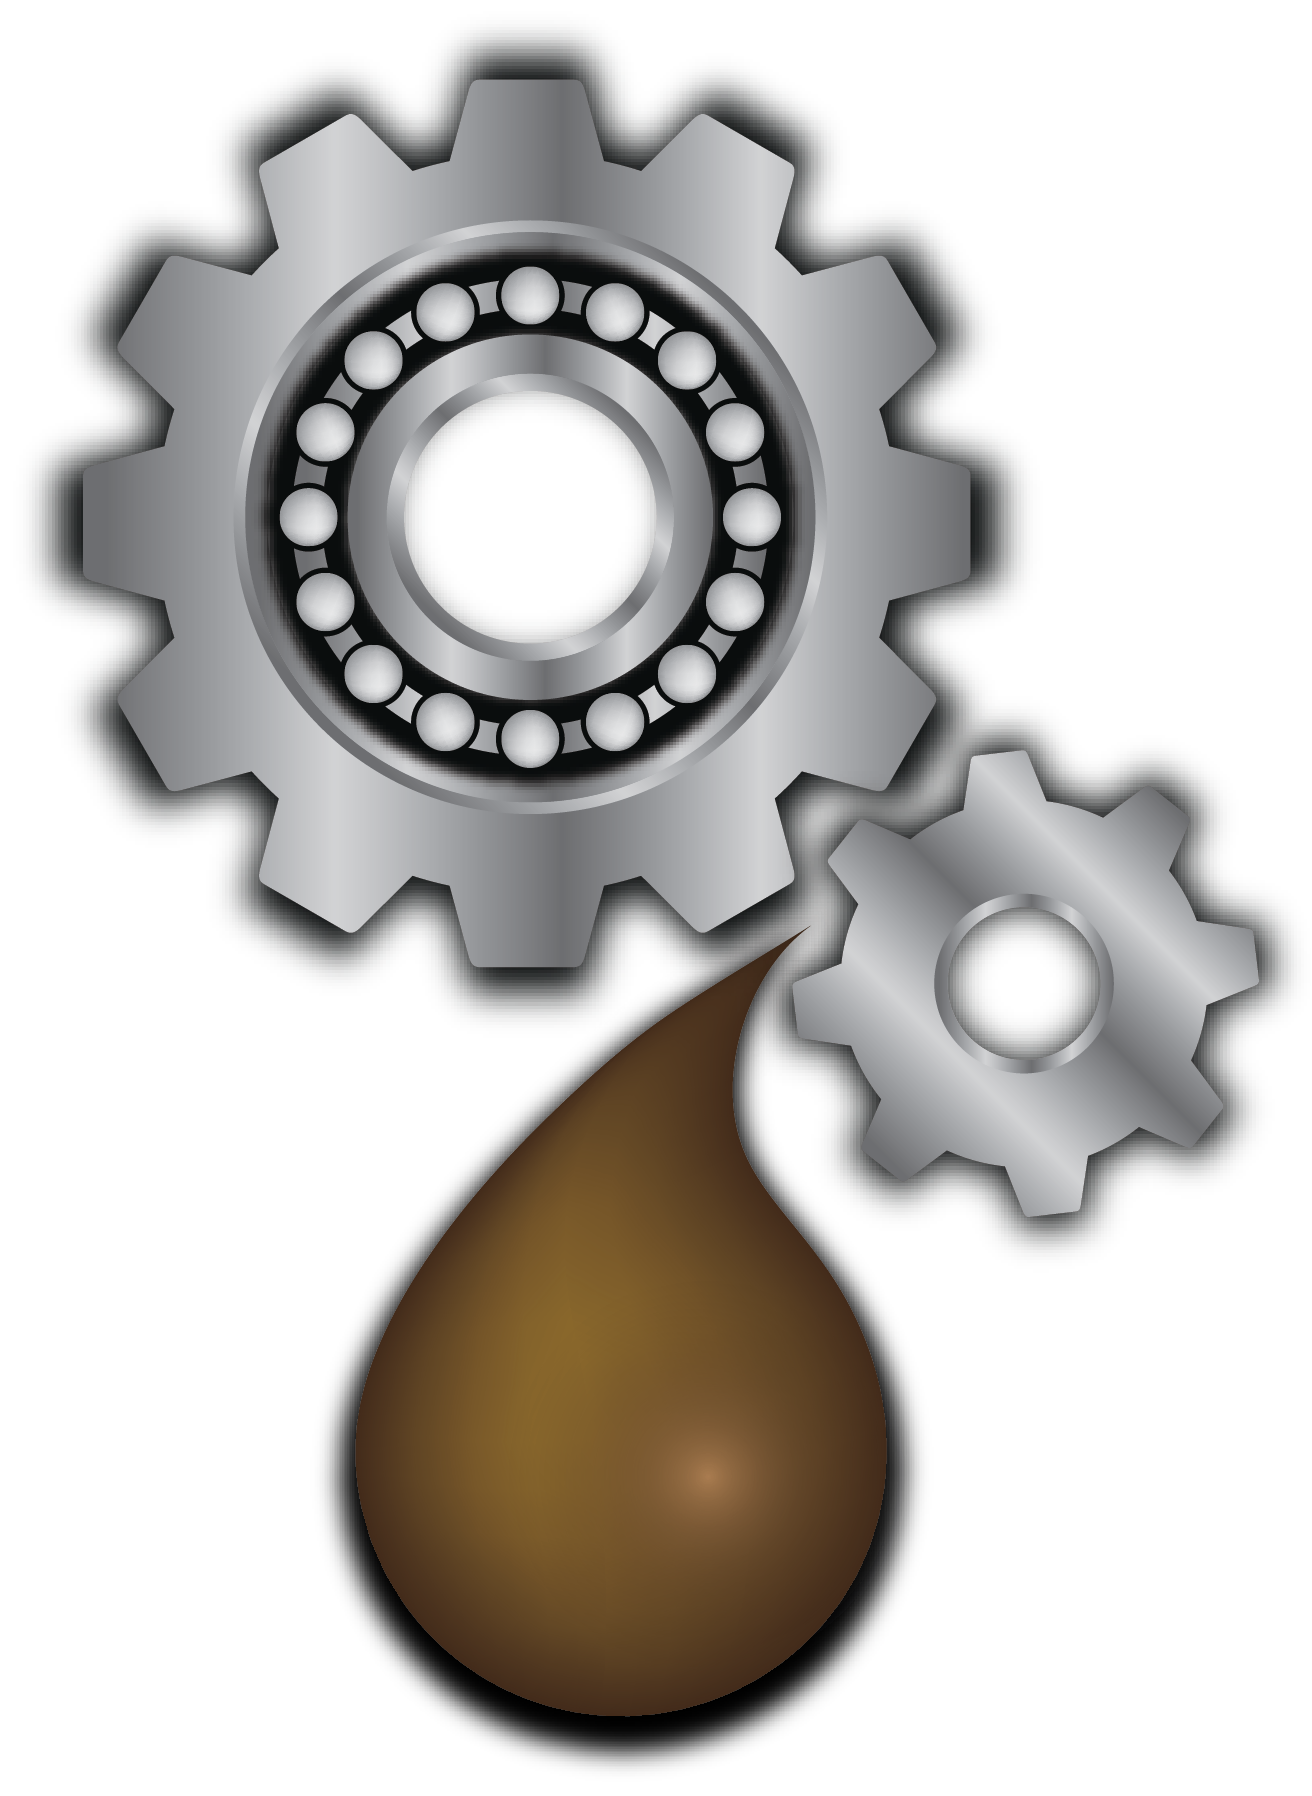
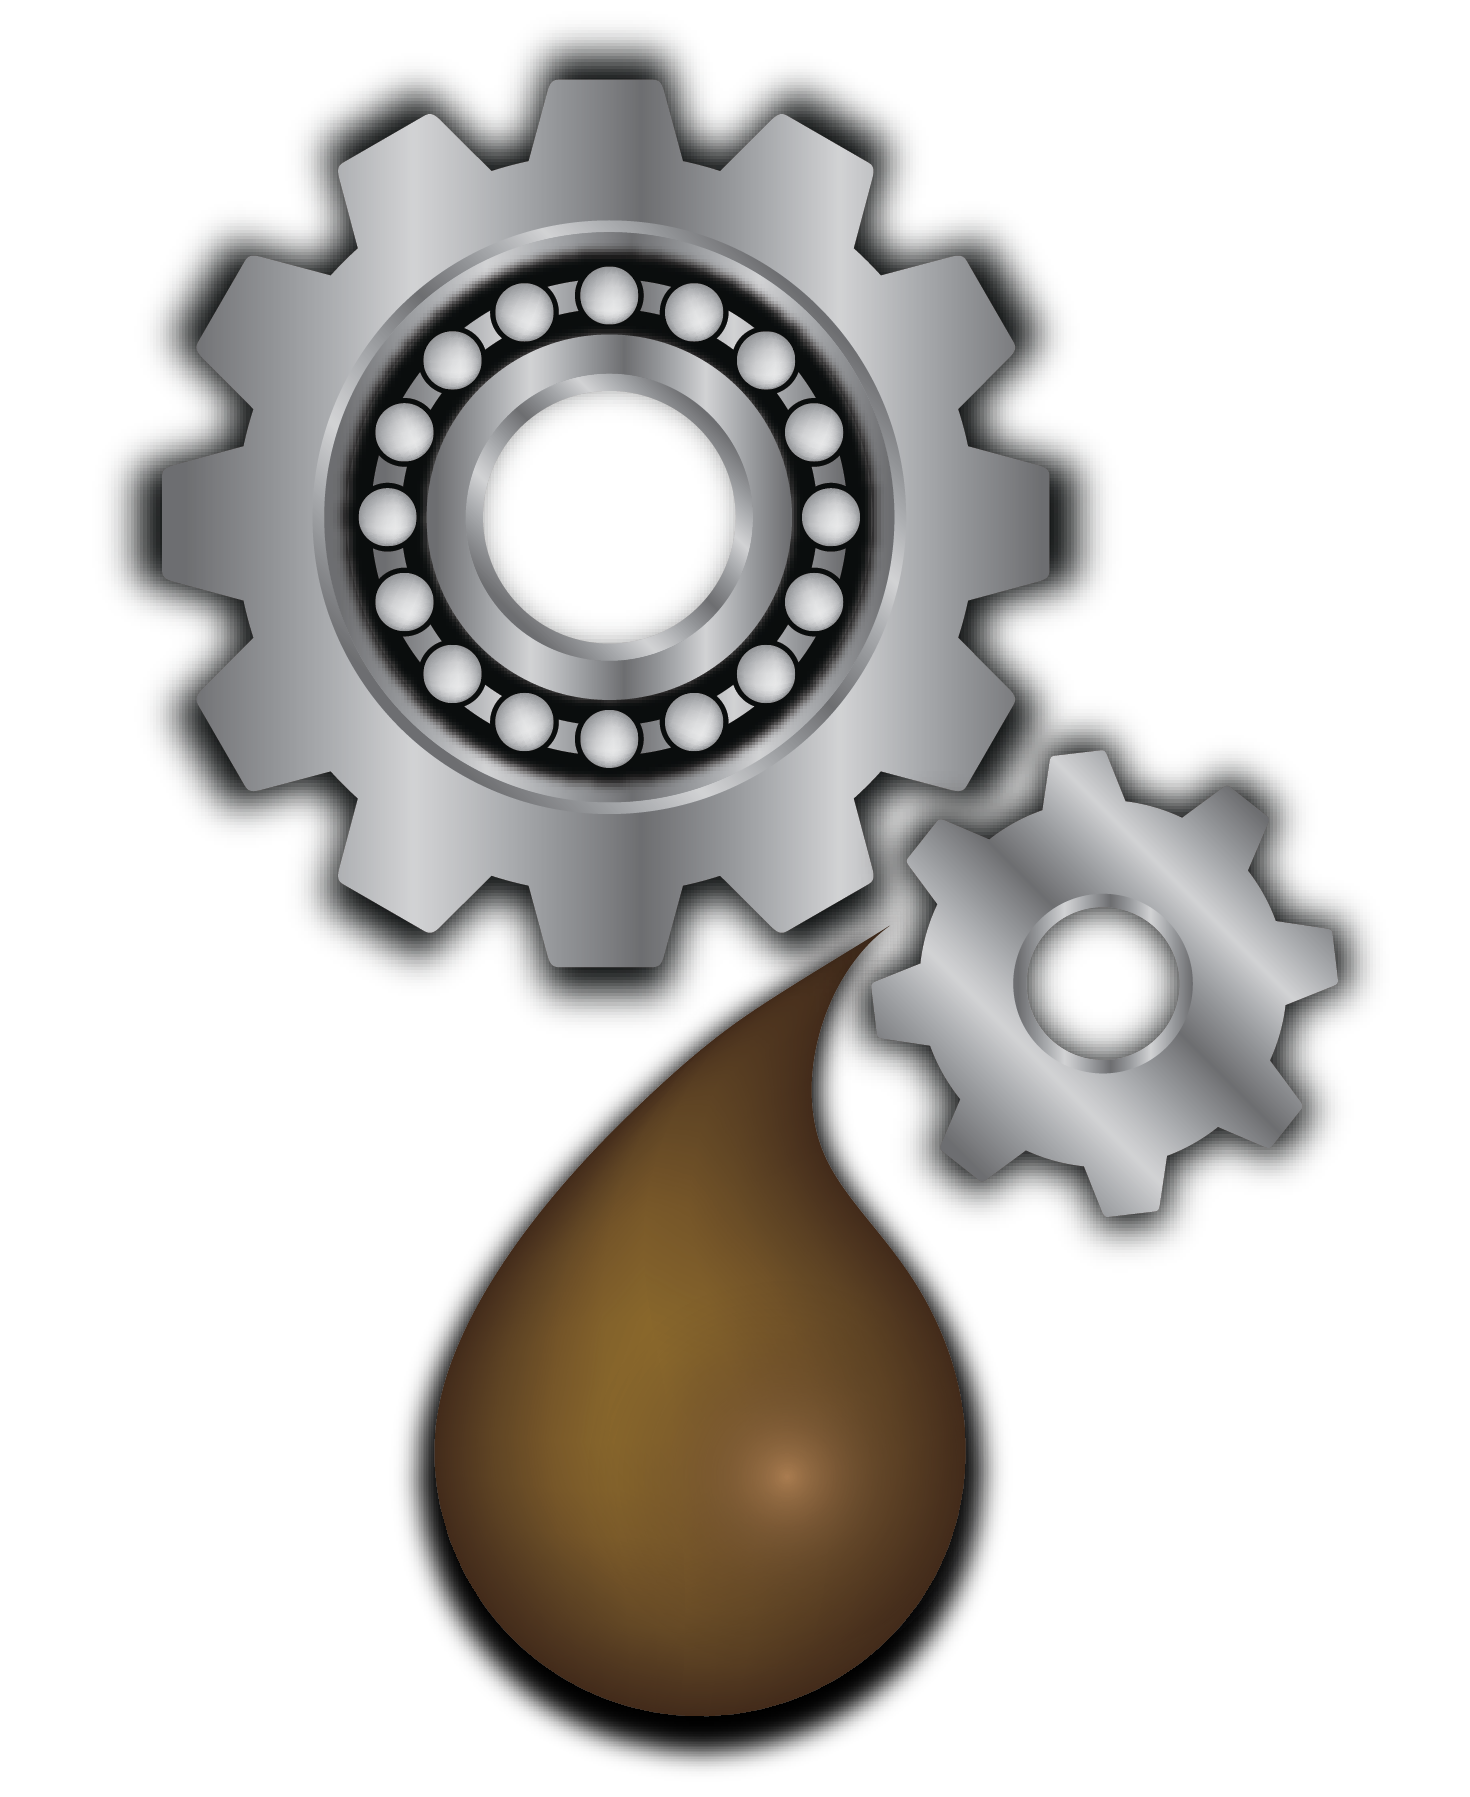
added reuse water and new gears and drop pngs

diff --git a/index.html b/index.html
@@ -89,9 +89,9 @@
           <div class="col-lg-4 col-md-6 d-flex align-items-stretch">
             <a href="mailto:infor@winecountrypump.com" style="color:white;">
               <div class="member">
-                <img src="assets/img/automation_purple.png" class="mb-5" alt="">
+                <img src="assets/img/1.png" alt="">
                 <h4 >Industrial Automation</h4>
-                <span class="mb-4">Sales & Service</span>
+                <span>Sales & Service</span>
               </div>
             </a>
           </div>
@@ -99,9 +99,9 @@
           <div class="col-lg-4 col-md-6 d-flex align-items-stretch">
             <a href="mailto:infor@winecountrypump.com" style="color:white;">
               <div class="member">
-                <img src="assets/img/main_drop.png" alt="">
+                <img src="assets/img/2.png" alt="">
                 <h4>Pump & Equipment</h4>
-                <span class="mb-2">Sales, Installation & Maintenance</span>
+                <span>Sales, Installation & Maintenance</span>
               </div>
             </a>
           </div>
@@ -109,7 +109,7 @@
           <div class="col-lg-4 col-md-6 d-flex align-items-stretch">
             <a href="mailto:infor@winecountrypump.com" style="color:white;">
               <div class="member">
-                <img src="assets/img/sludge_drop.png" alt="">
+                <img src="assets/img/3.png" alt="">
                 <h4>Winery Wastewater</h4>
                 <span>Consulting, Operations, & Maintenance</span>
               </div>
